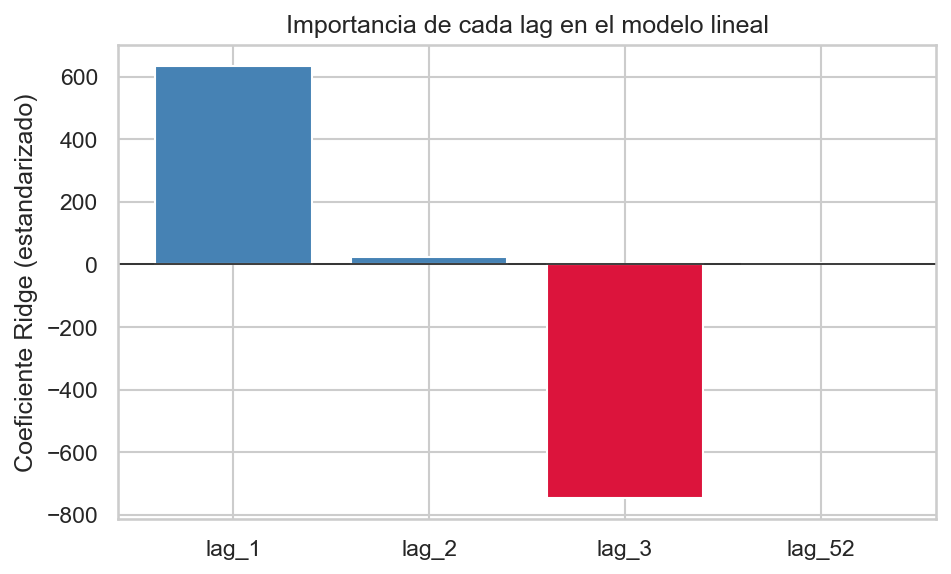
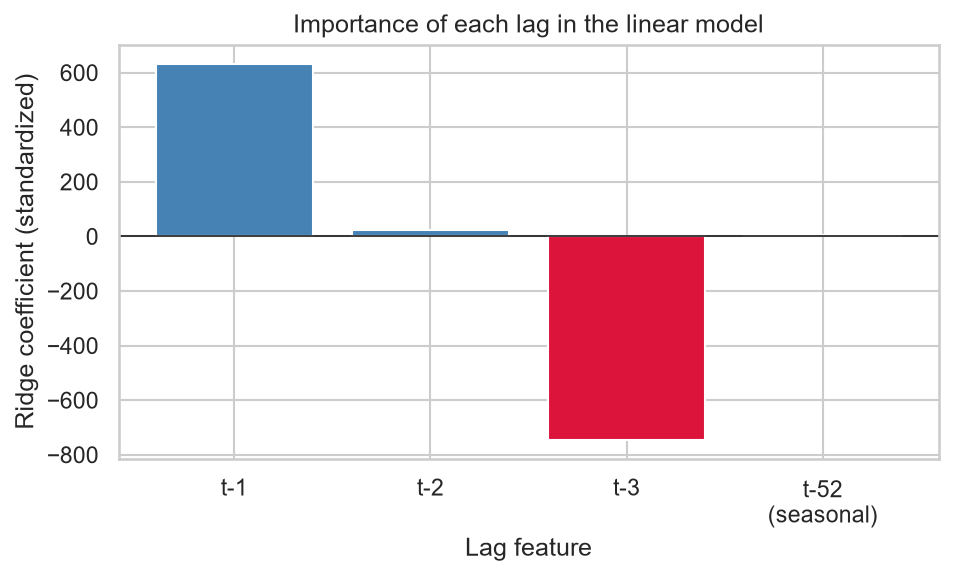
Actualizacion documento nuevo formato

diff --git a/latex/paper_simbig.tex b/latex/paper_simbig.tex
@@ -1,59 +1,51 @@
 %==============================================================================
-%  SIMBIG 2026 -- Long paper
-%  Dengue Case Forecasting in Peru Using
-%  Time-Series Machine Learning Models
+%  SIMBIG 2026 -- Long paper (Springer LNCS / CCIS format)
+%  Dengue Case Forecasting in Peru Using Time-Series Machine Learning Models
 %
-%  NOTE ON THE DOCUMENT CLASS
-%  --------------------------
-%  This file uses the standard `article` class so it compiles in any LaTeX /
-%  Overleaf installation WITHOUT external files (all figures are generated with
-%  pgfplots from the real numbers reported in the experiments).
-%  To switch to the official Springer CCIS/LNCS template required by SIMBIG,
-%  replace the preamble with `\documentclass{llncs}` and adapt the
-%  \author / \institute commands; the body (sections, tables, figures) is reused
-%  as-is.
+%  DOCUMENT CLASS: Springer "llncs" (single column), required by SIMBIG.
+%  Compile on Overleaf; the llncs.cls file is available there by default.
+%  FIGURES: upload the three PNGs preserving the folder
+%           notebooksV2/imagenes/01_Regresion/ (or replace the existing ones,
+%           same file names). The bibliography is a manual thebibliography for
+%           portability (no external .bib file needed).
 %==============================================================================
-\documentclass[10pt,twocolumn]{article}
+\documentclass[runningheads]{llncs}
 
-\usepackage[utf8]{inputenc}
 \usepackage[T1]{fontenc}
-\usepackage[hmargin=1.8cm,vmargin=2.2cm]{geometry}
-\usepackage{times}
+\usepackage[utf8]{inputenc}
 \usepackage{amsmath,amssymb}
 \usepackage{booktabs}
 \usepackage{array}
 \usepackage{multirow}
 \usepackage{graphicx}
-\graphicspath{{Clasificaci-n-Severidad-Dengue/notebooksV2/imagenes/}{./}}
-\usepackage{float} % \begin{figure}[H] -> fija la figura exactamente donde se escribe
-\usepackage{caption}
+\graphicspath{{Clasificaci-n-Severidad-Dengue/notebooksV2/imagenes/}{notebooksV2/imagenes/}{./}}
+\usepackage{float} % enables the [H] float placement specifier
 \usepackage{xcolor}
 \usepackage{pifont} % \ding{55}
 \usepackage{pgfplots}
 \pgfplotsset{compat=1.17}
-\usepackage[colorlinks=true,linkcolor=black,citecolor=blue,urlcolor=blue]{hyperref}
+\usepackage[hidelinks]{hyperref}
 
 \newcommand{\Rsq}{$R^2$}
-\setlength{\parskip}{2pt}
-
-\title{\vspace{-1.0cm}\textbf{Dengue Case Forecasting in Peru Using\\
-Time-Series Machine Learning Models}}
-
-\author{
-  Wilson J. Turpo Huanca \and Jhastyn J. Payehuanca Riquelme \and Jeanpiero S. Huamani Condori\\
-  \small Universidad Nacional de San Agust\'in de Arequipa (UNSA), Per\'u\\
-  \small \texttt{\{wturpoh, jpayehuancar, jhuamanicond\}@unsa.edu.pe}\\
-  \small Advisor: Carlos E.\ Atencio Torres\\
-  \small \texttt{catencio@unsa.edu.pe}\\
-}
-\date{}
 
 \begin{document}
-\twocolumn[
-  \begin{@twocolumnfalse}
-  \maketitle
-  \begin{abstract}
-  \noindent
+
+\title{Dengue Case Forecasting in Peru Using Time-Series Machine Learning Models}
+\titlerunning{Dengue Case Forecasting in Peru Using ML Models}
+
+\author{Wilson J.\ Turpo Huanca \and
+        Jhastyn J.\ Payehuanca Riquelme \and
+        Jeanpiero S.\ Huamani Condori}
+\authorrunning{W.\ Turpo Huanca et al.}
+
+\institute{Universidad Nacional de San Agust\'in de Arequipa (UNSA),
+  Arequipa, Peru\\
+  \email{\{wturpoh, jpayehuancar, jhuamanicond\}@unsa.edu.pe}\\
+  Advisor: Carlos E.\ Atencio Torres, \email{catencio@unsa.edu.pe}}
+
+\maketitle
+
+\begin{abstract}
   Dengue is a recurrent, climate-sensitive epidemic disease and a major public-health
   burden in Peru. Anticipating the weekly number of cases enables early-warning systems
   that help health authorities allocate resources before outbreaks escalate. Using the
@@ -75,13 +67,9 @@ Time-Series Machine Learning Models}}
   conclude that, using case history alone and a one-week horizon, simple linear models
   are preferable, providing a reproducible early-warning baseline.
 
-  \par\medskip\noindent
-  \textbf{Keywords:} dengue, case forecasting, time series, regression, machine learning,
-  early warning, public health, Peru.
-  \end{abstract}
-  \vspace{0.6cm}
-  \end{@twocolumnfalse}
-]
+  \keywords{Dengue \and Case forecasting \and Time series \and Regression \and
+  Machine learning \and Early warning \and Public health \and Peru}
+\end{abstract}
 
 %==============================================================================
 \section{Introduction}
@@ -117,7 +105,14 @@ models outperform the LSTM, yielding a transparent and reproducible early-warnin
 Machine-learning and time-series forecasting of dengue is an active field, driven by the
 need for early-warning systems for a seasonal disease with no specific treatment. Recent
 literature (2024--2025) concentrates on four patterns relevant to our work:
-(i)~the almost systematic \emph{use of exogenous covariates} (climate and, increasingly,
+(i)~the almost systematic \emph{use of exogenous covariates}\footnote{We use \emph{exogenous
+variable} (or covariate) in the standard time-series / econometric sense ---as in
+ARMAX-type models, where the ``X'' stands for eXogenous~\cite{boxjenkins,hyndmanFPP}--- to
+denote any predictor \emph{external} to the series being forecast, i.e.\ not derived from
+its own past values (e.g.\ temperature, rainfall, human mobility). This is the opposite of an
+\emph{endogenous} feature, such as the lagged case counts our model exclusively uses (\S3.4).
+Not every cited work uses this exact word, but all of them rely on such external data
+sources.} (climate and, increasingly,
 human mobility) as predictors~\cite{lu2025,chen2025rio,sebastianelli2024,chen2025mobility,
 dhaked2025,tft2026}; (ii)~the \emph{predominance of deep recurrent / attention models}
 (LSTM and, more recently, Transformers) as the reference or winning model at short and
@@ -175,11 +170,16 @@ of malaria and dengue. The TFT's interpretable attention reveals which climate f
 become informative at each horizon; as with the other deep models, its strength again
 rests on rich exogenous (climate) inputs rather than case history alone.
 
-\begin{table*}[t]
-\centering\footnotesize
-\caption{Summary of recent dengue-forecasting literature (last three years). All reviewed
-works rely on exogenous covariates (mainly climate); our work uses case history only.}
+\begin{table}[t]
+\centering
+\caption{Summary of recent dengue-forecasting literature (last three years). Column
+``Exog.\ vars.'' lists the \emph{external} (non-case) data sources each model consumes
+(see footnote~1 for the definition of ``exogenous''). All reviewed works rely on such
+exogenous covariates (mainly climate). In contrast, our model is built \emph{exclusively}
+from the target series' own past values ---i.e.\ previous weekly case counts, which we
+call \emph{case history}--- with no external data source at all (\S3.2--3.4).}
 \label{tab:sota}
+\resizebox{\textwidth}{!}{%
 \begin{tabular}{@{}llllll@{}}
 \toprule
 Ref. & Year & Country / site & Main technique(s) & Exog.\ vars. & Best reported result \\
@@ -192,8 +192,8 @@ Ref. & Year & Country / site & Main technique(s) & Exog.\ vars. & Best reported 
 \cite{tft2026} & 2026 & multi-site & Temporal Fusion Transformer & climate & interpretable climate drivers \\
 \textbf{Ours} & 2026 & \textbf{Peru (national)} & Ridge/Lasso/MLP/RF/GB/LSTM & \textbf{none (cases only)} & \textbf{$R^2=0.975$ (Ridge), $H=1$} \\
 \bottomrule
-\end{tabular}
-\end{table*}
+\end{tabular}}
+\end{table}
 
 \paragraph{Gap and positioning.}
 Unlike these works ---which depend on exogenous variables and where LSTM or ensembles
@@ -215,34 +215,48 @@ We use the MINSA national dengue epidemiological surveillance dataset (\emph{Dat
 Abiertos}, Peru)~\cite{minsa}, covering 2000--2024 with \textbf{1{,}029{,}421}
 individual case records and 14 columns
 (department, province, district, locality, disease type, year, epidemiological week,
-ICD-10 code, health directorate, geocode, age, age unit, sex). Identifier and
+ICD-10 code, health directorate, geocode, age, age unit, sex). A \textbf{record} is one row
+of the raw dataset, i.e.\ \emph{one individually notified dengue case}, timestamped by
+epidemiological week and year and tagged with the patient's location (department, province,
+district) and demographics (age, sex). Identifier and
 high-cardinality fields (geocode, locality code, district) are discarded, as are the
 clinical categorical fields (disease type, ICD-10 code), which are irrelevant to the weekly
 case count. Table~\ref{tab:dict} summarizes the variable dictionary.
 
+\paragraph{Scope: national, not regional.} Department, province and DIRESA are used only to
+\emph{aggregate} records into a single \textbf{national} weekly count (\S3.2); they are
+\emph{not} inputs to the forecasting model, and the model does \emph{not} produce
+region-specific forecasts. Concretely, given the national case counts of the $W=3$ most
+recent weeks, the model outputs the national case count for the following week (i.e.\ week
+$t{+}1$ from weeks $t{-}2,t{-}1,t$); it does not take a region as input, nor a 4-week
+window. Region-level forecasting is discussed as future work in Section~6.
+
 \begin{table}[t]
 \centering\footnotesize
-\caption{Variable dictionary. \checkmark{}~candidate examined; \ding{55}~identifier / invalid.
-No categorical field is ordinally encoded: geographic fields are used only to
-\emph{aggregate} records into the weekly count, and the final model is purely univariate
-(lags of the count). Candidate variables marked ``EDA only'' were inspected in the
-correlation analysis but not fed to the model.}
+\caption{Variable dictionary and the role each field plays in this study (regression only;
+a companion severity-classification study uses disease type / ICD-10 separately and is out
+of scope here). \textbf{Aggregation key}: used only to \emph{group} individual case records
+into the weekly national count $\text{cases}_t$ (\S3.2); it never enters the model as a
+numeric predictor by itself. \textbf{Examined in EDA}: aggregated at the weekly level and
+correlated against $\text{cases}_t$ (Fig.~\ref{fig:corr}); given a near-zero correlation, it
+was \emph{not} retained as a feature. \textbf{Discarded}: identifier, high-cardinality, or
+irrelevant to the weekly count. The final regression model is \emph{univariate}: its only
+inputs are lagged values of $\text{cases}_t$ itself (\S3.4).}
 \label{tab:dict}
-\begin{tabular}{@{}lll@{}}
+\begin{tabular}{@{}llp{3.6cm}@{}}
 \toprule
-Variable & Type & Feature? \\
+Variable & Type & Role in this study \\
 \midrule
-department & categorical & \checkmark{} (aggregation only) \\
-province & categorical & \checkmark{} (aggregation only) \\
-district / locality & categorical/text & \ding{55}\ high cardinality \\
-disease type & categorical & \ding{55}\ not used \\
-year & numeric & \checkmark{} $\to$ basis of \texttt{cases} \\
-week (1--53) & numeric & \checkmark{} $\to$ basis of \texttt{cases} \\
-diagnostic (ICD-10) & categorical & \ding{55}\ not used \\
-diresa & categorical & \checkmark{} (aggregation only) \\
-geocode / loc.\ code & ID & \ding{55}\ invalid \\
-age / age unit & numeric/cat. & \checkmark{} (normalized, EDA only) \\
-sex & categorical & \checkmark{} (binary, EDA only) \\
+department / province & categorical & Aggregation key only \\
+district / locality & categorical/text & Discarded (high cardinality) \\
+disease type & categorical & Discarded (out of scope; used only in a companion classification study) \\
+year & numeric & Aggregation key: defines the week index of $\text{cases}_t$ \\
+week (1--53) & numeric & Aggregation key: defines the week index of $\text{cases}_t$ \\
+diagnostic (ICD-10) & categorical & Discarded (redundant with disease type) \\
+diresa & categorical & Aggregation key only \\
+geocode / loc.\ code & ID & Discarded (identifier, invalid as feature) \\
+age / age unit & numeric/cat. & Examined in EDA ($r\approx0.06$ with $\text{cases}_t$); not used as a feature \\
+sex & categorical & Examined in EDA ($r\approx0.11$ with $\text{cases}_t$); not used as a feature \\
 \bottomrule
 \end{tabular}
 \end{table}
@@ -321,8 +335,11 @@ notebook (\texttt{01\_Regresion}), from which every figure reported below is exp
 A supervised dataset is built with the sliding window described above ---each row is
 augmented with $W$ lag columns holding the $W$ previous weekly counts--- as
 $X=[\,\text{cases}_{t-W},\dots,\text{cases}_{t-1}\,]\to y=\text{cases}_{t+H-1}$.
-We use a \textbf{temporal split} (train on the past, test on the most recent $\approx20\%$,
-i.e.\ 2023--2024), avoiding random splits that would leak future information. We compare
+We use a \textbf{temporal split} (train on the past, test on the most recent $\approx20\%$
+of the series, i.e.\ \textbf{2020 (week~12) through 2024 (week~52), $\approx$4.8 years}),
+avoiding random splits that would leak future information. This test window contains both
+the 2023 and 2024 upsurges (\S4.1), which is why we describe it below as the
+out-of-distribution period. We compare
 six techniques: Ridge (L2), Lasso (L1), a Multilayer Perceptron (MLP), Random Forest,
 Gradient Boosting, and an LSTM recurrent network with standardized inputs. Performance is
 measured with \textbf{\Rsq{}, RMSE and MAE}, and compared against a \textbf{na\"ive
@@ -396,9 +413,9 @@ epidemiological week~16, with a secondary rise late in the year (schematic of th
 \label{fig:season}
 \end{figure}
 
-\begin{figure*}[t]
+\begin{figure}[t]
 \centering
-\includegraphics[width=0.92\textwidth]{01_Regresion/output_1_1.png}
+\includegraphics[width=\linewidth]{01_Regresion/output_1_1.png}
 \caption{Empirical autocorrelation of the weekly dengue series (computed in notebook
 \texttt{01\_Regresion}). \emph{Left:} the autocorrelation function (ACF) starts at
 lag-1~$=0.982$ and decays slowly, with a clear secondary hump around lags~$44$--$52$ that
@@ -406,9 +423,15 @@ reveals the yearly seasonal cycle. \emph{Right:} the partial autocorrelation fun
 (PACF) cuts off abruptly after the first lags --- only $t{-}1$, $t{-}2$ and $t{-}3$
 (plus a faint seasonal term) exceed the significance band --- which is the textbook
 signature of a low-order autoregressive process and directly justifies the choice of
-$W=3$ lag features.}
+$W=3$ lag features. This combined ACF/PACF diagnostic is the classical Box--Jenkins
+visualization~\cite{boxjenkins}, reproduced with the same side-by-side layout and shaded
+95\% significance bands in Hyndman \& Athanasopoulos~\cite{hyndmanFPP} (Chs.~2.9 and~9.5,
+\emph{Forecasting: Principles and Practice}, freely available online); the plots were
+generated with the \texttt{statsmodels} library~\cite{statsmodels}
+(\texttt{plot\_acf}/\texttt{plot\_pacf}), whose own documentation gallery shows figures in
+this exact style.}
 \label{fig:acf}
-\end{figure*}
+\end{figure}
 
 The combined ACF/PACF diagnostic in Fig.~\ref{fig:acf} is decisive for the modeling
 strategy. The slowly decaying ACF confirms that the series is strongly persistent (it is
@@ -458,7 +481,8 @@ one-week horizon.
 
 \begin{table}[t]
 \centering\footnotesize
-\caption{Model comparison at $W=3$, $H=1$ (temporal test on 2023--2024).
+\caption{Model comparison at $W=3$, $H=1$ (temporal test on 2020--2024, $\approx$4.8 years,
+which includes the 2023 and 2024 upsurges).
 Na\"ive persistence baseline: \Rsq{}~$=0.959$, RMSE~$=862$, MAE~$=383$.}
 \label{tab:models}
 \begin{tabular}{@{}lcccc@{}}
@@ -475,7 +499,7 @@ Gradient Boosting & 0.374 & 3359 & 1128 & No \\
 \end{tabular}
 \end{table}
 
-\begin{figure*}[t]
+\begin{figure}[t]
 \centering
 \begin{tikzpicture}
 \begin{axis}[
@@ -497,13 +521,15 @@ Gradient Boosting & 0.374 & 3359 & 1128 & No \\
 \caption{$R^2$ by model. The dashed line marks the na\"ive persistence baseline; only the
 linear models and the MLP exceed it.}
 \label{fig:r2}
-\end{figure*}
+\end{figure}
 
 To make the quantitative comparison tangible, Fig.~\ref{fig:forecast} overlays the actual
-predictions on the most recent test period (2023--2024), where the two explosive outbreaks
----including the peak that followed \emph{Cyclone Yaku} in early 2023~\cite{yaku2023}
-(vertical dotted line)--- push the
-series far above any historical level. The figure conveys two messages. First, the
+predictions on the temporal test period (2020--2024), where two distinct explosive
+outbreaks push the series far above any historical level: a first, smaller upsurge in 2023
+(week~20, 19{,}269 cases; green dash-dotted line) associated with \emph{Cyclone
+Yaku}~\cite{yaku2023}, and a second, \textbf{larger and separate} outbreak in 2024 (week~14,
+21{,}628 cases; red dotted line), the highest value in the entire 25-year series. The figure
+conveys two messages. First, the
 \textbf{na\"ive persistence baseline} (orange) is already a strong competitor precisely
 because of the very high lag-1 autocorrelation: predicting ``next week $=$ this week'' is
 hard to beat at $H=1$. Second, when the models are framed to predict the \emph{weekly
@@ -513,18 +539,20 @@ the ceiling'' that otherwise traps level-based tree models inside their training
 This confirms that the predictable signal lives in the short-term dynamics of the series
 itself, not in its absolute magnitude.
 
-\begin{figure*}[t]
+\begin{figure}[t]
 \centering
-\includegraphics[width=0.96\textwidth]{01_Regresion/output_1_3.png}
-\caption{One-week-ahead forecasts over the temporal test period (2023--2024), obtained in
-notebook \texttt{01\_Regresion}. The black curve is the observed MINSA weekly count; the
-Ridge regression (via differencing) and the na\"ive persistence baseline closely follow the
-two out-of-distribution outbreaks, including the exponential peak that followed
-\emph{Cyclone Yaku} (dotted vertical line). Modeling the growth rate lets even linear and tree models extrapolate beyond
-the historical range, supporting the near-linear, strongly autoregressive nature of the
-series.}
+\includegraphics[width=\linewidth]{01_Regresion/output_1_3.png}
+\caption{One-week-ahead forecasts over the temporal test period (2020--2024, $\approx$4.8
+years), obtained in notebook \texttt{01\_Regresion}. The black curve is the observed MINSA
+weekly count; the Ridge regression (via differencing) and the na\"ive persistence baseline
+closely follow both out-of-distribution outbreaks: the smaller, first upsurge in 2023
+(left bump; green dash-dotted line) associated with \emph{Cyclone Yaku}, and the larger,
+second and unrelated outbreak in 2024 (right bump; red dotted line), the highest weekly
+count in the 25-year series. Modeling the growth rate lets even linear and tree models
+extrapolate beyond the historical range, supporting the near-linear, strongly
+autoregressive nature of the series.}
 \label{fig:forecast}
-\end{figure*}
+\end{figure}
 
 %==============================================================================
 \section{Discussion}
@@ -707,6 +735,12 @@ Time Series Analysis: Forecasting and Control, 5th edn. Wiley, Hoboken, NJ (2015
 Hyndman, R.J., Athanasopoulos, G.:
 Forecasting: Principles and Practice, 3rd edn. OTexts, Melbourne (2021).
 \url{https://otexts.com/fpp3/}
+
+\bibitem{statsmodels}
+Seabold, S., Perktold, J.:
+statsmodels: Econometric and statistical modeling with Python. In: Proceedings of the
+9th Python in Science Conference (SciPy 2010), pp.~92--96 (2010).
+\url{https://doi.org/10.25080/Majora-92bf1922-011}
 
 \bibitem{hyndman2006}
 Hyndman, R.J., Koehler, A.B.:
